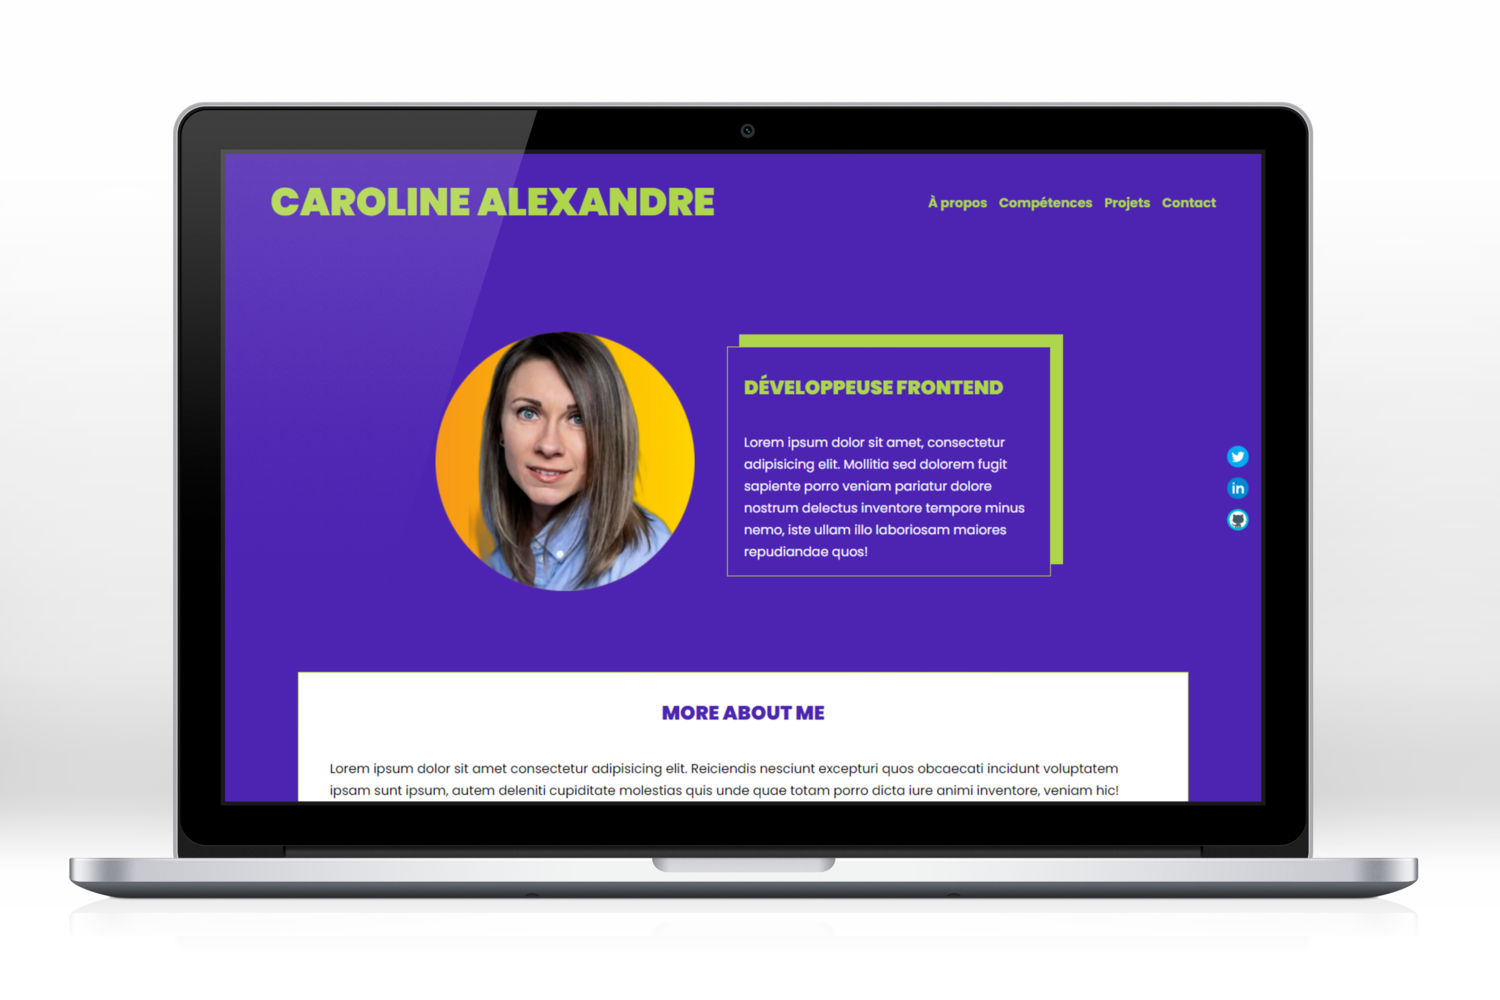
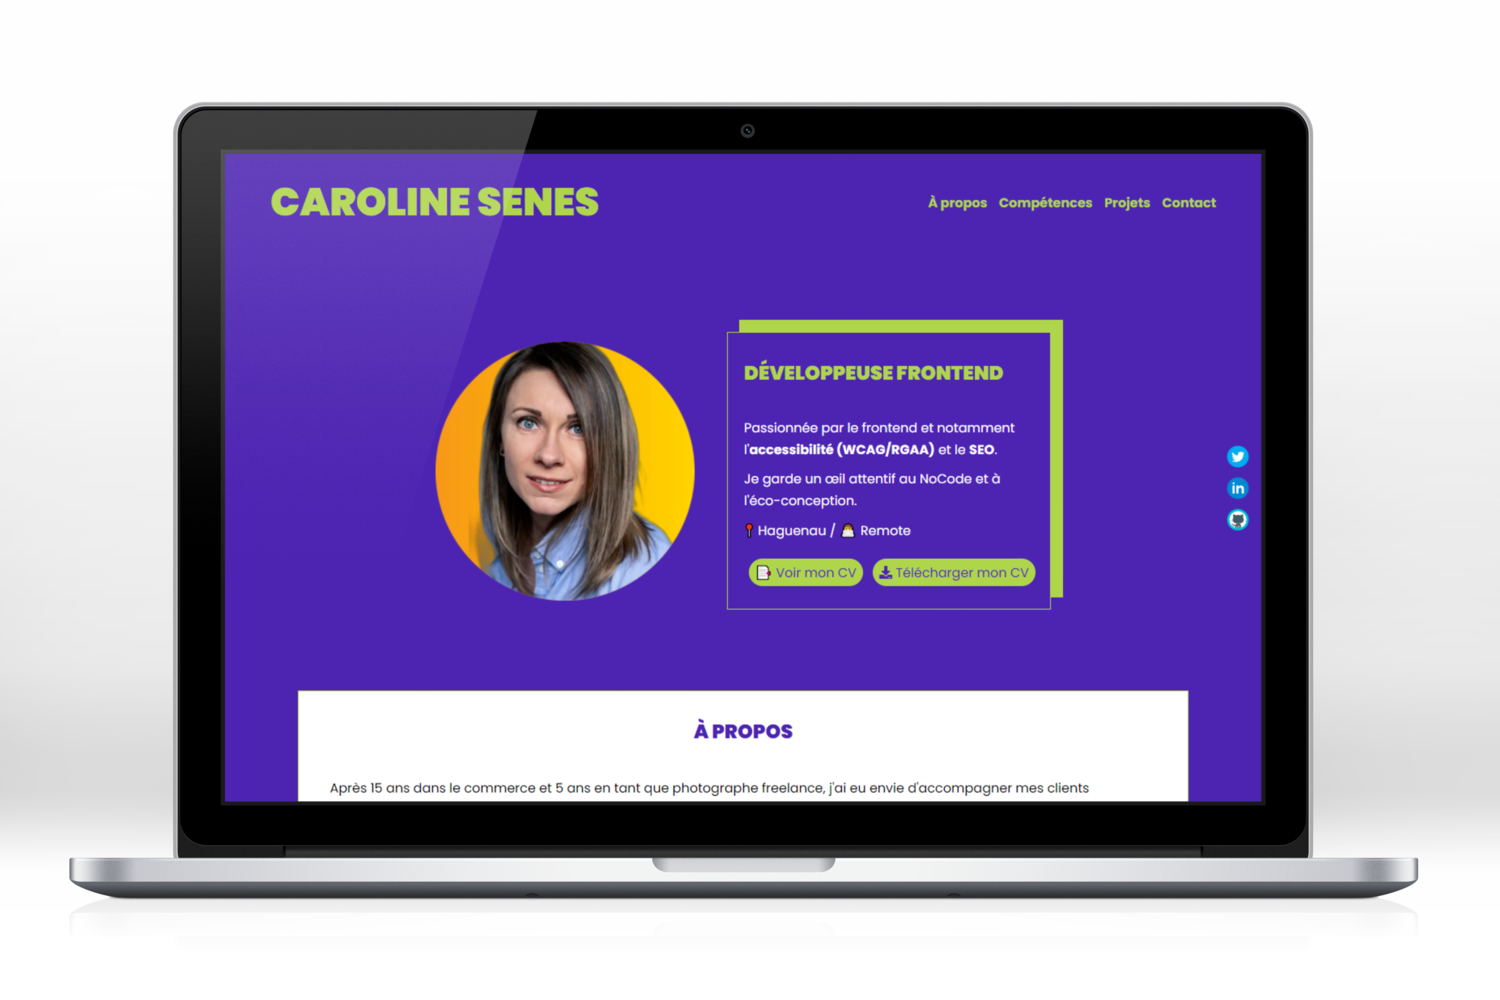
actualisation du mokup desktop

diff --git a/index.html b/index.html
@@ -6,12 +6,27 @@
     <meta name="viewport" content="width=device-width, initial-scale=1.0" />
     <meta
       name="description"
-      content="Caroline ALEXANDRE - Portfolio - Développeuse Web"
+      content="Caroline ALEXANDRE - Portfolio - Développeuse front-end"
     />
+
+    <!-- Twitter Card data -->
+    <meta name="twitter:card" value="summary" />
+
+    <!-- Open Graph data -->
+    <meta property="og:title" content="Caroline ALEXANDRE - Portfolio - Développeuse front-end" />
+    <meta property="og:type" content="portfolio" />
+    <meta property="og:url" content="https://carolinealexandre.netlify.app" />
+    <meta property="og:image" content="http://example.com/image.jpg" />
+    <meta property="og:description" content="Description Here" />
 
     <!--CSS Styles -->
     <link rel="stylesheet" href="assets/css/styles.css" />
-    <link rel="stylesheet" href="https://use.fontawesome.com/releases/v5.15.4/css/all.css" integrity="sha384-DyZ88mC6Up2uqS4h/KRgHuoeGwBcD4Ng9SiP4dIRy0EXTlnuz47vAwmeGwVChigm" crossorigin="anonymous">
+    <link
+      rel="stylesheet"
+      href="https://use.fontawesome.com/releases/v5.15.4/css/all.css"
+      integrity="sha384-DyZ88mC6Up2uqS4h/KRgHuoeGwBcD4Ng9SiP4dIRy0EXTlnuz47vAwmeGwVChigm"
+      crossorigin="anonymous"
+    />
 
     <!-- Favicons -->
     <link
@@ -67,18 +82,28 @@
         <div>
           <h2 class="bio-title">Développeuse Frontend</h2>
           <p>
-            Passionnée par le frontend et notamment l'<b>accessibilité (WCAG/RGAA)</b> et le <b>SEO</b>.
+            Passionnée par le frontend et notamment l'<b
+              >accessibilité (WCAG/RGAA)</b
+            >
+            et le <b>SEO</b>.
           </p>
-          <p>
-            Je garde un œil attentif au NoCode et à l'éco-conception.
-          </p>
-          <p>
-            📍 Haguenau / 
-            👩💻 Remote
-          </p>
+          <p>Je garde un œil attentif au NoCode et à l'éco-conception.</p>
+          <p>📍 Haguenau / 👩💻 Remote</p>
           <div class="cv">
-            <a href="assets/CV_CarolineSENES_ Développeuse_frontend.pdf" target="_blank" rel="noreferrer" class="see-cv">📑 Voir mon CV</a>
-            <a href="assets/CV_CarolineSENES_ Développeuse_frontend.pdf" download="CV Caroline SENES" class="download-cv"><i class="fas fa-download download" alt=""></i> Télécharger mon CV</a>
+            <a
+              href="assets/CV_CarolineSENES_ Développeuse_frontend.pdf"
+              target="_blank"
+              rel="noreferrer"
+              class="see-cv"
+              >📑 Voir mon CV</a
+            >
+            <a
+              href="assets/CV_CarolineSENES_ Développeuse_frontend.pdf"
+              download="CV Caroline SENES"
+              class="download-cv"
+              ><i class="fas fa-download download" alt=""></i> Télécharger mon
+              CV</a
+            >
           </div>
         </div>
       </article>
@@ -89,11 +114,16 @@
       <article class="more-about-txt">
         <h2 class="section-title">à propos</h2>
         <p>
-          Après 15 ans dans le commerce et 5 ans en tant que photographe freelance, j'ai eu envie d'accompagner mes clients professionnels impactés par le confinement, dans leur digitalisation.
-          Mon attrait pour le numérique m'a permis d'entreprendre sereinement une formation dans le développement web, afin de pouvoir créer des solutions en ligne répondant aux besoins des entreprises.
+          Après 15 ans dans le commerce et 5 ans en tant que photographe
+          freelance, j'ai eu envie d'accompagner mes clients professionnels
+          impactés par le confinement, dans leur digitalisation. Mon attrait
+          pour le numérique m'a permis d'entreprendre sereinement une formation
+          dans le développement web, afin de pouvoir créer des solutions en
+          ligne répondant aux besoins des entreprises.
         </p>
         <p>
-          Passionnée et toujours curieuse d'apprendre, j'apporte mon savoir et mon expérience tout en m'adaptant.
+          Passionnée et toujours curieuse d'apprendre, j'apporte mon savoir et
+          mon expérience tout en m'adaptant.
         </p>
       </article>
     </section>
@@ -386,7 +416,12 @@
         </article>
 
         <article class="project-container">
-          <img src="./assets/images/groupomania.webp" alt="groupomania" loading="lazy" class="project-pic" />
+          <img
+            src="./assets/images/groupomania.webp"
+            alt="groupomania"
+            loading="lazy"
+            class="project-pic"
+          />
           <div class="project-container-txt">
             <h3 class="project-title">Développement full stack</h3>
             <p class="project-details">
@@ -425,10 +460,39 @@
               <i class="fab fa-js"></i>
               <i class="fab fa-node-js"></i>
               <i class="fas fa-database"></i>
-              <svg xmlns="http://www.w3.org/2000/svg" x="0px" y="0px"
-                width="30" height="30"
+              <svg
+                xmlns="http://www.w3.org/2000/svg"
+                x="0px"
+                y="0px"
+                width="30"
+                height="30"
                 viewBox="0 0 172 172"
-                style=" fill:#000000;"><g fill="none" fill-rule="nonzero" stroke="none" stroke-width="1" stroke-linecap="butt" stroke-linejoin="miter" stroke-miterlimit="10" stroke-dasharray="" stroke-dashoffset="0" font-family="none" font-weight="none" font-size="none" text-anchor="none" style="mix-blend-mode: normal"><path d="M0,172v-172h172v172z" fill="none"></path><g fill="#6e6e6e"><path d="M22.93333,28.66667c-6.33533,0 -11.46667,5.13133 -11.46667,11.46667v91.73333c0,6.33533 5.13133,11.46667 11.46667,11.46667h126.13333c6.33533,0 11.46667,-5.13133 11.46667,-11.46667v-91.73333c0,-6.33533 -5.13133,-11.46667 -11.46667,-11.46667zM41.57786,63.06667h14.27734l15.41953,45.86667h-12.70964l-2.86667,-10.07812h-14.97162l-2.95625,10.07812h-11.57865zM80.26667,63.06667h20.08906c9.8556,0 16.52813,6.42617 16.52813,16.28177c0,9.75813 -7.0228,16.1362 -17.2224,16.1362h-7.73776v13.4487h-11.65703zM131.86667,63.06667h11.65703v45.86667h-11.65703zM91.93489,72.025v14.65808h5.27422c4.95933,0 7.88333,-2.54784 7.88333,-7.31224c-0.00573,-4.8332 -2.89121,-7.34583 -7.81614,-7.34583zM47.97188,73.40234l-5.02786,17.06563h10.55963l-4.92708,-17.06563z"></path></g></g></svg>
+                style="fill: #000000"
+              >
+                <g
+                  fill="none"
+                  fill-rule="nonzero"
+                  stroke="none"
+                  stroke-width="1"
+                  stroke-linecap="butt"
+                  stroke-linejoin="miter"
+                  stroke-miterlimit="10"
+                  stroke-dasharray=""
+                  stroke-dashoffset="0"
+                  font-family="none"
+                  font-weight="none"
+                  font-size="none"
+                  text-anchor="none"
+                  style="mix-blend-mode: normal"
+                >
+                  <path d="M0,172v-172h172v172z" fill="none"></path>
+                  <g fill="#6e6e6e">
+                    <path
+                      d="M22.93333,28.66667c-6.33533,0 -11.46667,5.13133 -11.46667,11.46667v91.73333c0,6.33533 5.13133,11.46667 11.46667,11.46667h126.13333c6.33533,0 11.46667,-5.13133 11.46667,-11.46667v-91.73333c0,-6.33533 -5.13133,-11.46667 -11.46667,-11.46667zM41.57786,63.06667h14.27734l15.41953,45.86667h-12.70964l-2.86667,-10.07812h-14.97162l-2.95625,10.07812h-11.57865zM80.26667,63.06667h20.08906c9.8556,0 16.52813,6.42617 16.52813,16.28177c0,9.75813 -7.0228,16.1362 -17.2224,16.1362h-7.73776v13.4487h-11.65703zM131.86667,63.06667h11.65703v45.86667h-11.65703zM91.93489,72.025v14.65808h5.27422c4.95933,0 7.88333,-2.54784 7.88333,-7.31224c-0.00573,-4.8332 -2.89121,-7.34583 -7.81614,-7.34583zM47.97188,73.40234l-5.02786,17.06563h10.55963l-4.92708,-17.06563z"
+                    ></path>
+                  </g>
+                </g>
+              </svg>
             </div>
             <div class="link">
               <a
@@ -677,10 +741,7 @@
 
     <!-- Scroll to top -->
     <i class="scroll-up" id="scroll-up"
-      ><img
-        src="assets/icons/noun_up_762227.svg"
-        class="up-arrow"
-        alt=""
+      ><img src="assets/icons/noun_up_762227.svg" class="up-arrow" alt=""
     /></i>
 
     <!-- Footer section -->
